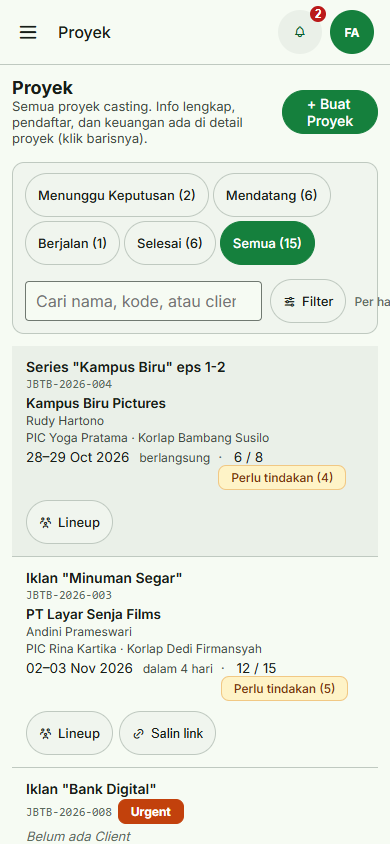
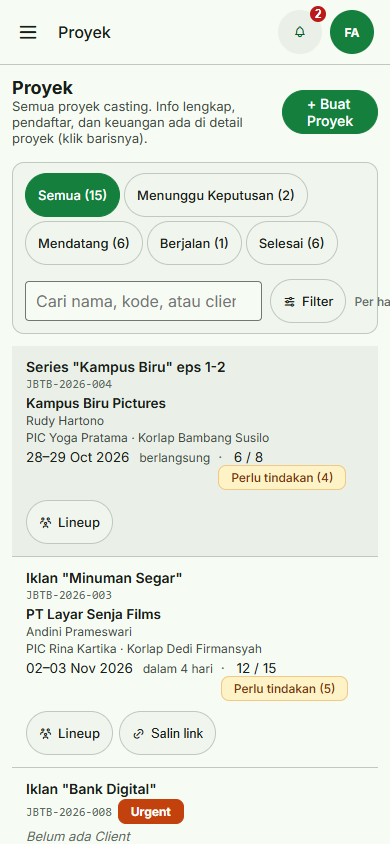
refactor(proyek): jadikan tab filter 'Semua' sebagai urutan pertama dan default

Changed region(s): [[0.0615, 0.1848, 0.8308, 0.3389]]

diff --git a/resources/views/admin/projects/index.blade.php b/resources/views/admin/projects/index.blade.php
@@ -4,16 +4,17 @@
     $isSuperAdmin = auth()->user()->isSuperAdmin();
     $isTabMenungguKeputusan = $isSuperAdmin && $tahap === 'menunggu_acc';
 
-    // CX.1: Deretan tab tahap - khusus Super Admin, tab "Menunggu Keputusan" di posisi PALING KIRI
-    // dengan badge total ke-4 grup. Admin biasa tidak melihat tab ini sama sekali.
-    $tabsTahap = [];
+    // CX.1: Deretan tab tahap - tab "Semua" sebagai default di posisi paling kiri,
+    // lalu "Menunggu Keputusan" (khusus Super Admin), Mendatang, Berjalan, Selesai.
+    $tabsTahap = [
+        '' => ['label' => 'Semua', 'jumlah' => $jumlahTahap[''] ?? 0],
+    ];
     if ($isSuperAdmin) {
         $tabsTahap['menunggu_acc'] = ['label' => 'Menunggu Keputusan', 'jumlah' => $menungguKeputusanCount];
     }
     $tabsTahap['mendatang'] = ['label' => 'Mendatang', 'jumlah' => $jumlahTahap['mendatang'] ?? 0];
     $tabsTahap['berjalan'] = ['label' => 'Berjalan', 'jumlah' => $jumlahTahap['berjalan'] ?? 0];
     $tabsTahap['selesai'] = ['label' => 'Selesai', 'jumlah' => $jumlahTahap['selesai'] ?? 0];
-    $tabsTahap[''] = ['label' => 'Semua', 'jumlah' => $jumlahTahap[''] ?? 0];
 @endphp
 
 @section('title', $isTabMenungguKeputusan ? 'Persetujuan' : 'Proyek')
